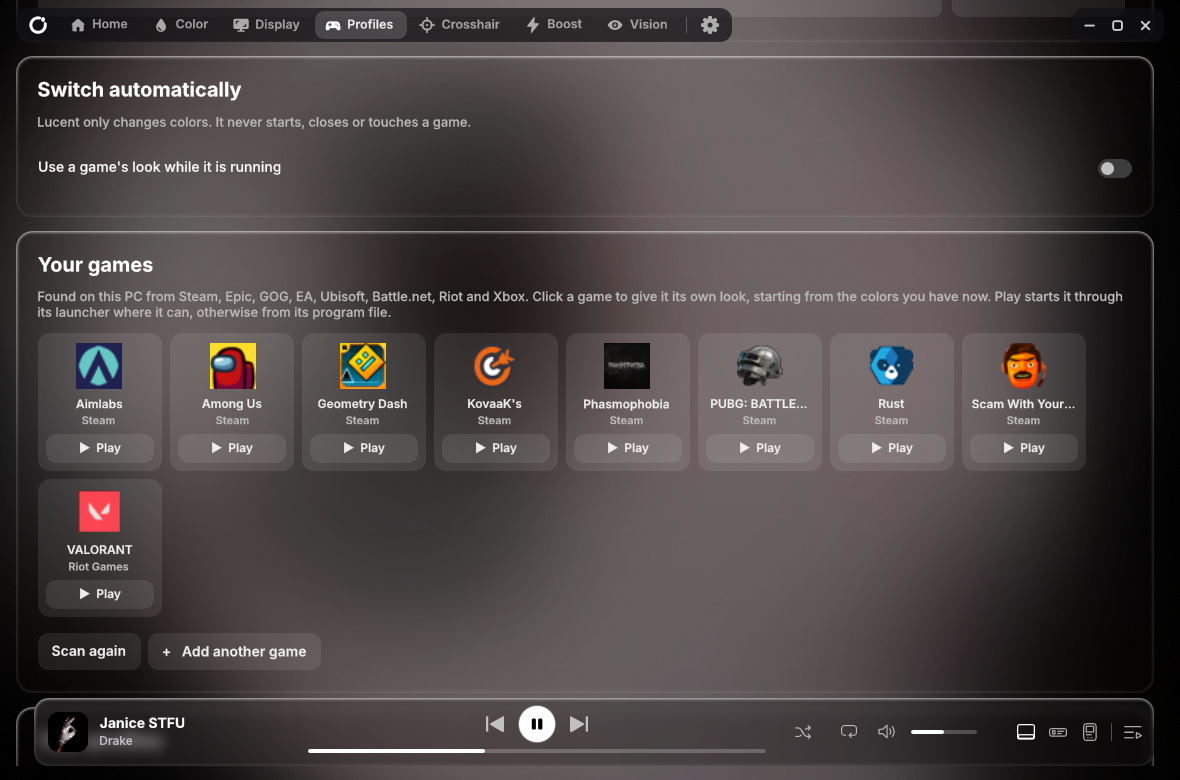
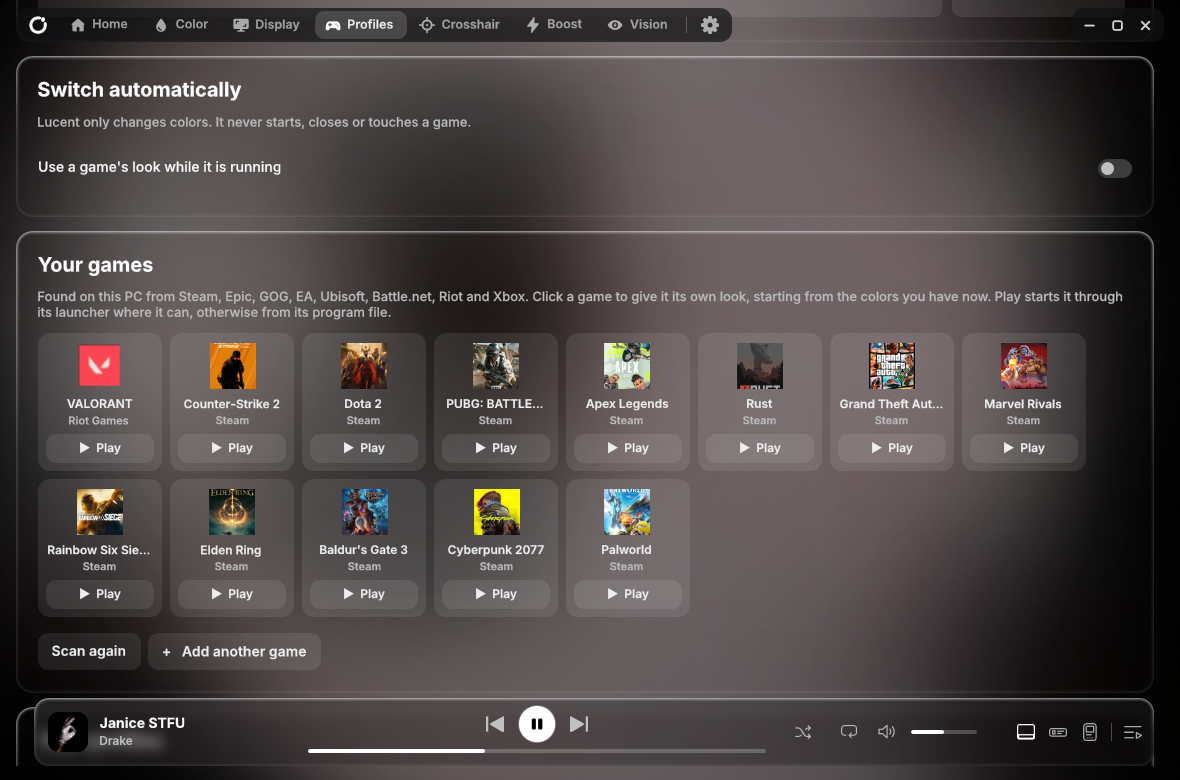
Show popular Steam games and VALORANT in the Profiles picture

diff --git a/tests/ReadmeShots.cs b/tests/ReadmeShots.cs
@@ -147,7 +147,22 @@ class ReadmeShots
   Call(shell,"SetBigPlayerOpen",false);await Task.Delay(900);
   // Game profiles, scrolled to the games (the pictures of the games found on this PC).
   Call(shell,"ShowPage","Profiles");await Task.Delay(1500);
-  Shell.ShowGameIcons=true;var found=GameLibrary.Scan();shell.SetLibrary(found);Console.WriteLine("games found: "+found.Count+" ("+string.Join(", ",found.Take(12).Select(g=>g.Name))+")");await Task.Delay(2500);
+  Shell.ShowGameIcons=true;var found=GameLibrary.Scan();
+  // For the picture: VALORANT as found on this PC, then well-known Steam games (their pictures are in the folder named by LUCENT_GAMES) instead of the games on this PC.
+  string gamesFolder=Environment.GetEnvironmentVariable("LUCENT_GAMES");
+  if(!string.IsNullOrEmpty(gamesFolder)&&Directory.Exists(gamesFolder))
+  {
+   var shown=new List<LibraryGame>();
+   var valorant=found.FirstOrDefault(g=>g.Name=="VALORANT");if(valorant!=null)shown.Add(valorant);
+   foreach(string file in Directory.GetFiles(gamesFolder,"*.png").OrderBy(x=>x))
+   {
+    var bitmap=new System.Windows.Media.Imaging.BitmapImage();bitmap.BeginInit();bitmap.CacheOption=System.Windows.Media.Imaging.BitmapCacheOption.OnLoad;bitmap.UriSource=new Uri(file);bitmap.EndInit();bitmap.Freeze();
+    string title=Path.GetFileNameWithoutExtension(file);title=title.Substring(title.IndexOf('-')+1);if(title=="PUBG BATTLEGROUNDS")title="PUBG: BATTLEGROUNDS";
+    shown.Add(new LibraryGame{Name=title,Executable=@"C:\Games\"+title+".exe",Store="Steam",Picture=bitmap});
+   }
+   found=shown;
+  }
+  shell.SetLibrary(found);Console.WriteLine("games found: "+found.Count+" ("+string.Join(", ",found.Take(12).Select(g=>g.Name))+")");await Task.Delay(2500);
   var scroll=(System.Windows.Controls.ScrollViewer)F(shell,"contentScroll").GetValue(shell);scroll.ScrollToVerticalOffset(520);await Task.Delay(900);
   Shot(shell,Path.Combine(output,"game-profiles-games.png"));
   // Settings, with the album cover of a song in the background: the grid of categories, then About and General.

diff --git a/source/ShellProfiles.cs b/source/ShellProfiles.cs
@@ -114,7 +114,8 @@ namespace Lucent
             RenderOptions.SetBitmapScalingMode(picture,BitmapScalingMode.HighQuality);
             face.Children.Add(placeholder);
             face.Children.Add(picture);
-            if(!TestMode||ShowGameIcons)GameLibrary.LoadIcon(game.Executable,Dispatcher,source=>{picture.Source=source;placeholder.Visibility=Visibility.Collapsed;});
+            if(game.Picture!=null){picture.Source=game.Picture;placeholder.Visibility=Visibility.Collapsed;}
+            else if(!TestMode||ShowGameIcons)GameLibrary.LoadIcon(game.Executable,Dispatcher,source=>{picture.Source=source;placeholder.Visibility=Visibility.Collapsed;});
             var content=new StackPanel {HorizontalAlignment=HorizontalAlignment.Center};
             content.Children.Add(face);
             content.Children.Add(new TextBlock {Text=game.Name,FontSize=12,FontWeight=FontWeights.SemiBold,TextTrimming=TextTrimming.CharacterEllipsis,MaxWidth=104,HorizontalAlignment=HorizontalAlignment.Center,Margin=new Thickness(0,8,0,0)});

diff --git a/source/GameLibrary.cs b/source/GameLibrary.cs
@@ -16,6 +16,8 @@ namespace Lucent
     internal sealed class LibraryGame
     {
         public string Name,Executable,Store,Launch;
+        // Only for the pictures of the app (tests): a picture to show in place of the program's own icon.
+        public System.Windows.Media.ImageSource Picture;
     }
 
     // The games installed on this PC, found from the launchers' own install records and the files they point to. Nothing here starts, opens or

diff --git a/README.md b/README.md
@@ -129,7 +129,7 @@ Lucent is free and stays free. If it saved you some time, you can [buy me a coff
 
 Made by [@positted](https://github.com/positted), with [Claude](https://claude.com/claude-code) (Anthropic) as a contributor on the code, tests and this page.
 
-Lucent uses [SharpDX](https://github.com/sharpdx/SharpDX) (MIT). The album covers in the pictures belong to their artists and labels and are shown only to demonstrate how Lucent takes its colors from artwork.
+Lucent uses [SharpDX](https://github.com/sharpdx/SharpDX) (MIT). The album covers and game pictures in the screenshots belong to their artists, labels and publishers, and are shown only to demonstrate the app.
 
 ## License
 
